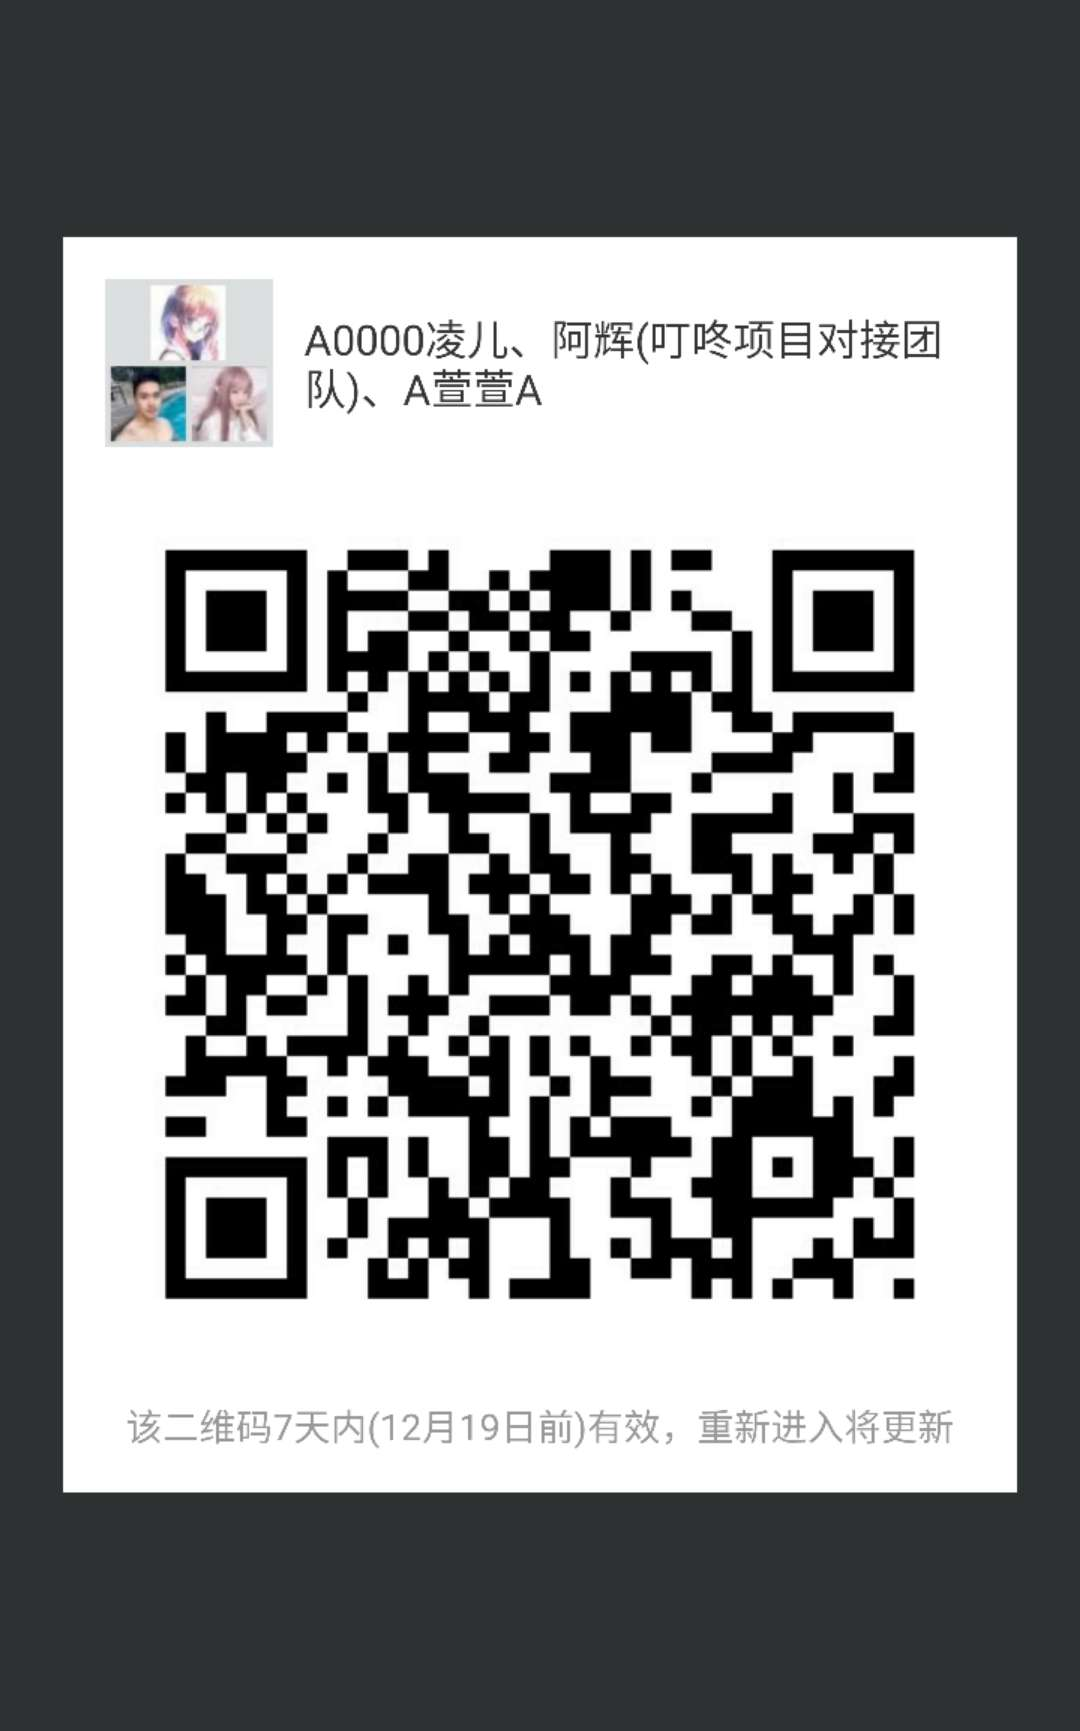
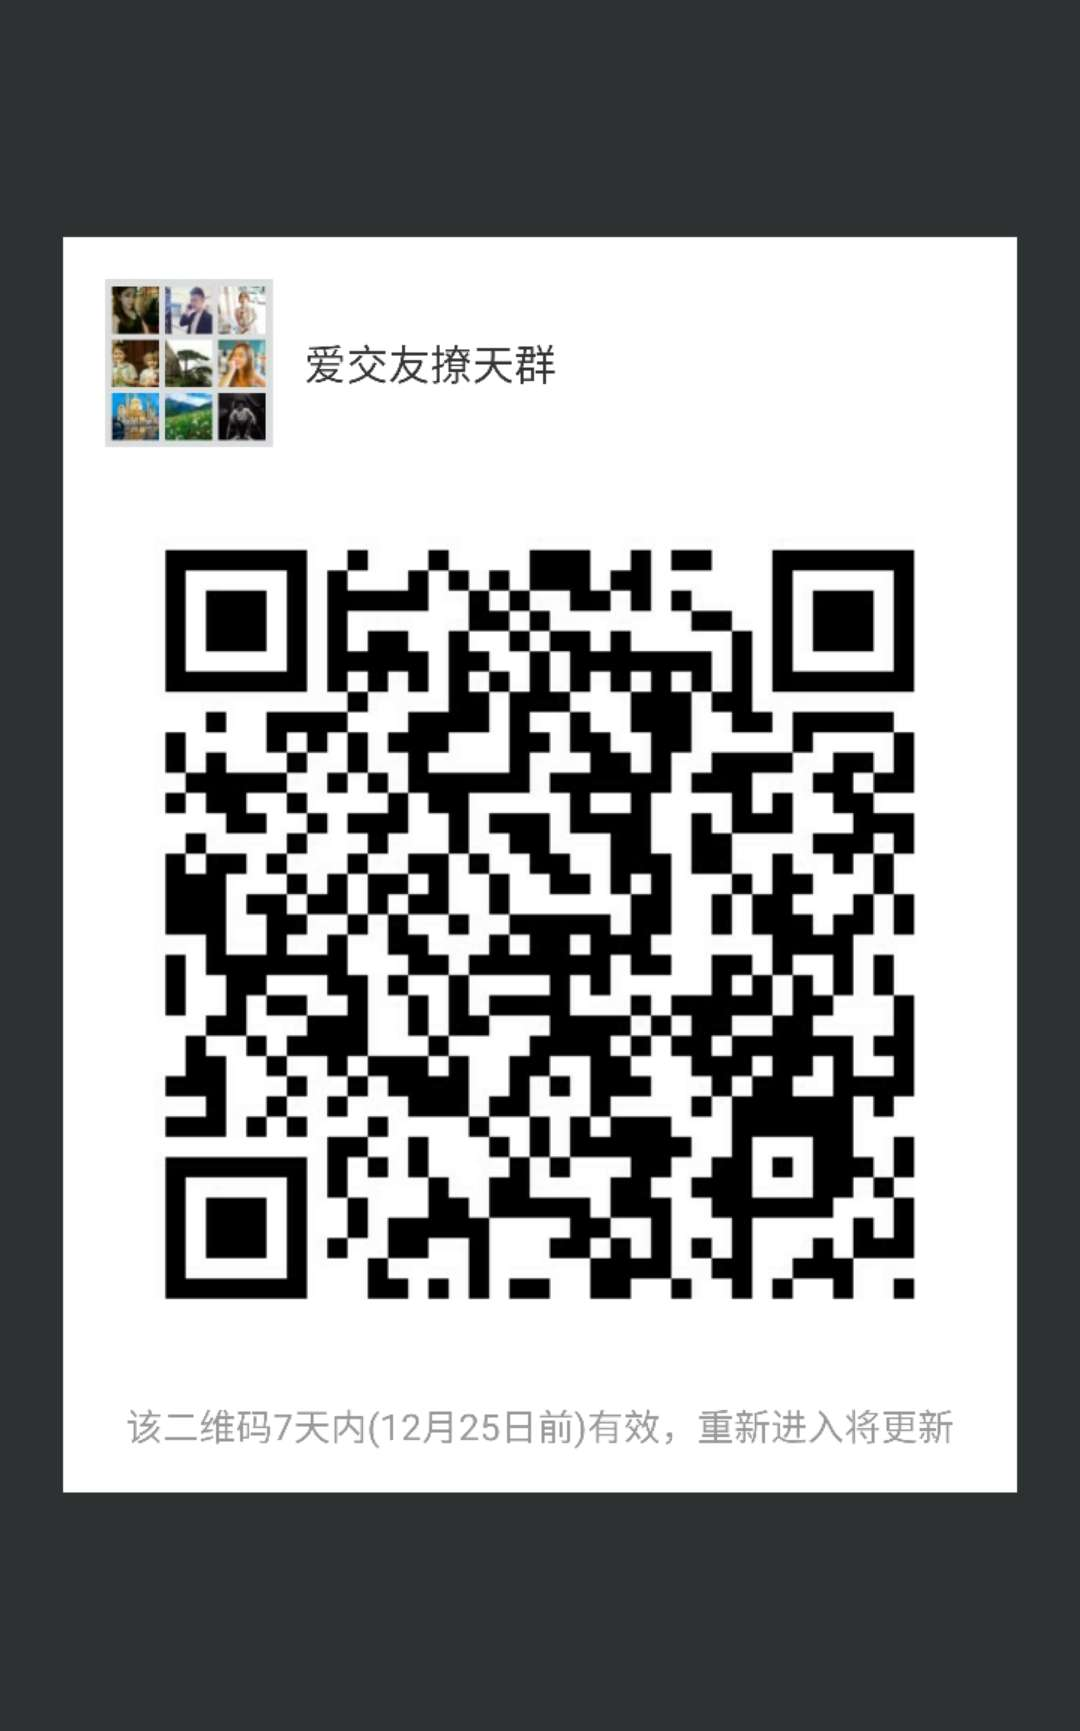
submit

diff --git a/weixinqun.html b/weixinqun.html
@@ -52,6 +52,8 @@
 		var imgs=["weixinqun/weixinqun_1.jpg"
 				,"weixinqun/weixinqun_2.jpg"
 				,"weixinqun/weixinqun_3.jpg"
+				,"weixinqun/weixinqun_4.jpg"
+				,"weixinqun/weixinqun_5.jpg"
 				];
 		
 		var weixinqunHtml="";
